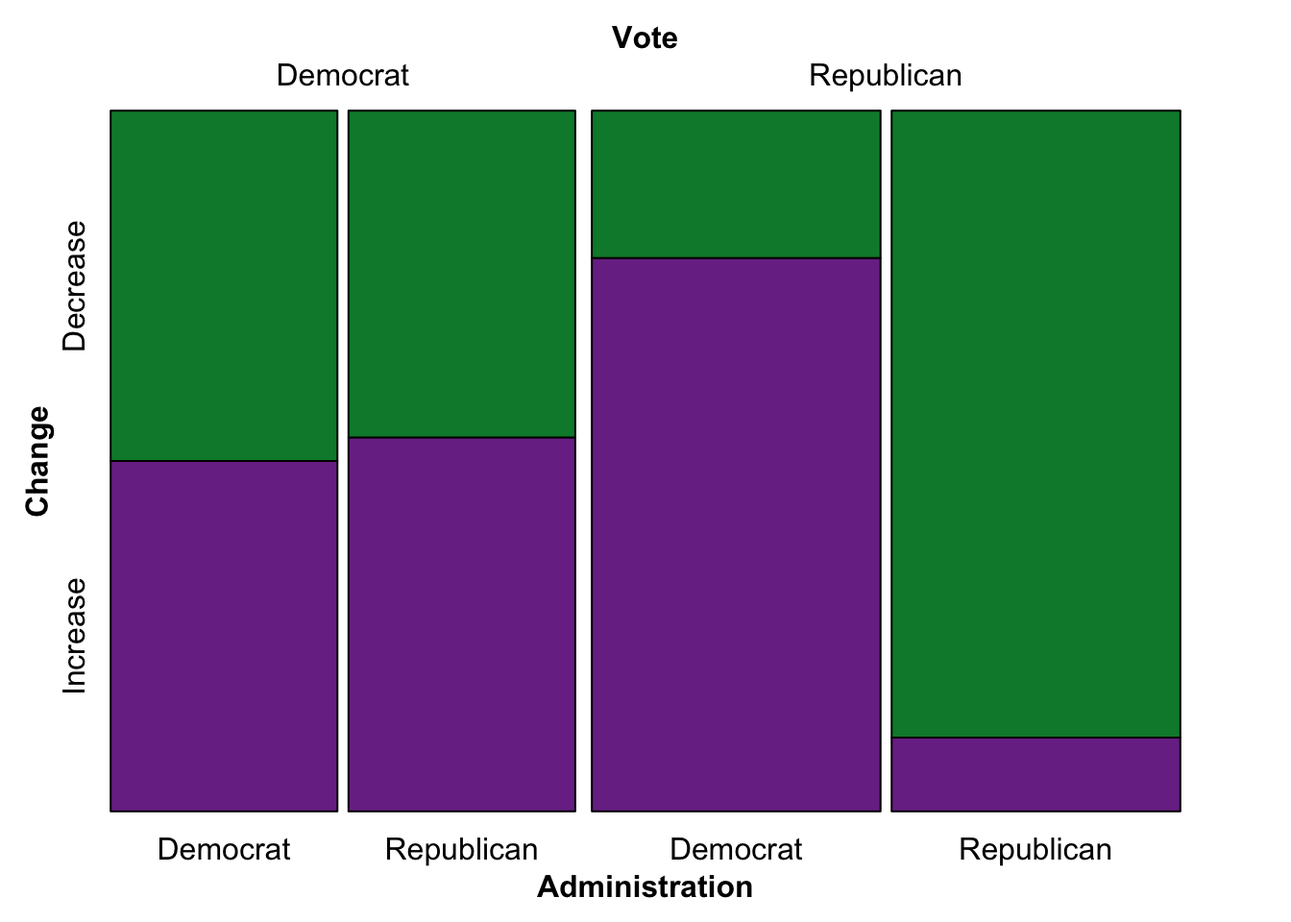
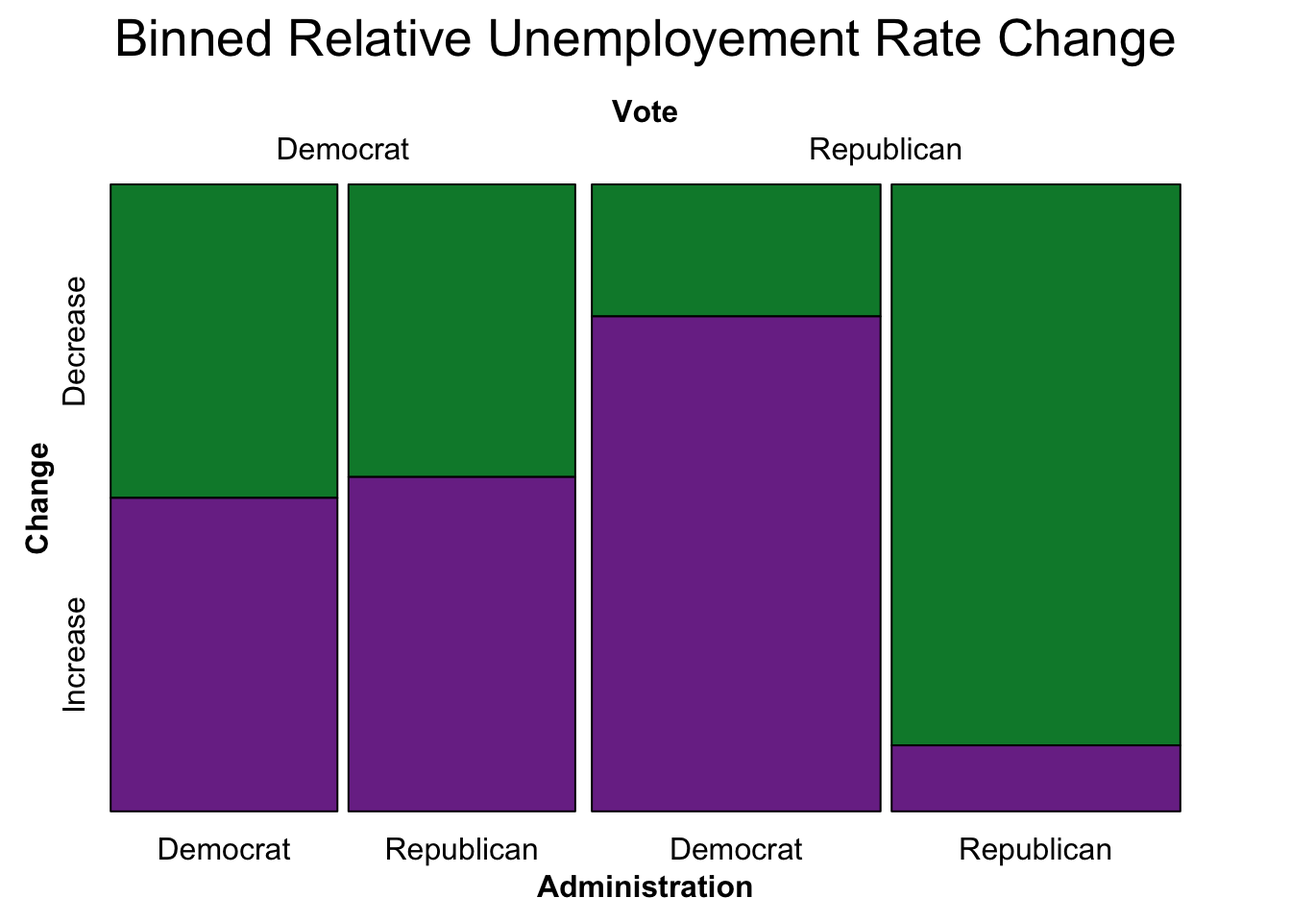
final edits

diff --git a/docs/results.html b/docs/results.html
@@ -212,7 +212,7 @@ pre > code.sourceCode > span > a:first-child::before { text-decoration: underlin
 
 
 <p>This section summarizes key findings from each dataset, identifying trends across economic variables and safe states. The analysis focuses on each variable individually to identify patterns within and across economic factors.</p>
-<p>An important note: there are sixteen safe-Democratic states and twenty safe-Republican states. Also, recall a safe state a state that voted for the same political party every election during the twenty-first century.</p>
+<p>An important note: there are sixteen safe-Democratic states and twenty safe-Republican states. Also, recall a safe state is a state that voted for the same political party every election during the twenty-first century.</p>
 <section id="unemployement-rate" class="level2" data-number="3.1">
 <h2 data-number="3.1" class="anchored" data-anchor-id="unemployement-rate"><span class="header-section-number">3.1</span> Unemployement Rate</h2>
 <p>The first variable of interest is unemployment rate. To quantify the impact of each presidency, a variable ‘change’ was created. Change is defined as the state’s unemployment rate in the last year the respective president was in office, subtracted from the first year they took office. Naturally, certain states have lower unemployment rates for reasons related to population size, specific industries, or the age of the workforce. To account for these differences, the analysis uses a metric that quantifies the state’s change relative to the overall change in the United States. Each state has a value “Difference from US,” (often referred to as relative unemployment rate change) which is the change in the individual state’s unemployment rate for the respective administration, subtracted by the United States’ change in unemployment rate for the same administration.</p>
@@ -244,7 +244,7 @@ pre > code.sourceCode > span > a:first-child::before { text-decoration: underlin
 <span id="cb1-22"><a href="#cb1-22" aria-hidden="true" tabindex="-1"></a>      <span class="st">"United States"</span> <span class="ot">=</span> <span class="st">"gray"</span></span>
 <span id="cb1-23"><a href="#cb1-23" aria-hidden="true" tabindex="-1"></a>    )) <span class="sc">+</span> <span class="fu">scale_y_reordered</span>() <span class="sc">+</span> </span>
 <span id="cb1-24"><a href="#cb1-24" aria-hidden="true" tabindex="-1"></a>  <span class="fu">labs</span>(<span class="at">y =</span> <span class="st">"State"</span>,</span>
-<span id="cb1-25"><a href="#cb1-25" aria-hidden="true" tabindex="-1"></a>       <span class="at">x =</span> <span class="st">"Average Unemployement Rate"</span>,</span>
+<span id="cb1-25"><a href="#cb1-25" aria-hidden="true" tabindex="-1"></a>       <span class="at">x =</span> <span class="st">"Relative Unemployment Rate Change"</span>,</span>
 <span id="cb1-26"><a href="#cb1-26" aria-hidden="true" tabindex="-1"></a>       <span class="at">title =</span> <span class="st">"Difference from US Change in Unemployement Rate Throughout 21st Century Across Administrations"</span>)</span></code></pre></div><button title="Copy to Clipboard" class="code-copy-button"><i class="bi"></i></button></div>
 </details>
 <div class="cell-output-display">
@@ -275,8 +275,10 @@ pre > code.sourceCode > span > a:first-child::before { text-decoration: underlin
 <span id="cb2-12"><a href="#cb2-12" aria-hidden="true" tabindex="-1"></a>  <span class="fu">group_by</span>(Vote, Change, Administration) <span class="sc">|&gt;</span></span>
 <span id="cb2-13"><a href="#cb2-13" aria-hidden="true" tabindex="-1"></a>  <span class="fu">summarize</span>(<span class="at">Freq =</span> <span class="fu">n</span>()) <span class="sc">|&gt;</span> <span class="fu">ungroup</span>() </span>
 <span id="cb2-14"><a href="#cb2-14" aria-hidden="true" tabindex="-1"></a></span>
-<span id="cb2-15"><a href="#cb2-15" aria-hidden="true" tabindex="-1"></a>vcd<span class="sc">::</span><span class="fu">mosaic</span>(Change <span class="sc">~</span> Vote <span class="sc">+</span> Administration, mosaic2, <span class="at">direction =</span> <span class="fu">c</span>(<span class="st">"v"</span>, <span class="st">"v"</span>, <span class="st">"h"</span>),</span>
-<span id="cb2-16"><a href="#cb2-16" aria-hidden="true" tabindex="-1"></a>            <span class="at">highlighting_fill =</span> rate_colors)</span></code></pre></div><button title="Copy to Clipboard" class="code-copy-button"><i class="bi"></i></button></div>
+<span id="cb2-15"><a href="#cb2-15" aria-hidden="true" tabindex="-1"></a>vcd<span class="sc">::</span><span class="fu">mosaic</span>(Change <span class="sc">~</span> Vote <span class="sc">+</span> Administration, mosaic2, </span>
+<span id="cb2-16"><a href="#cb2-16" aria-hidden="true" tabindex="-1"></a>            <span class="at">direction =</span> <span class="fu">c</span>(<span class="st">"v"</span>, <span class="st">"v"</span>, <span class="st">"h"</span>),</span>
+<span id="cb2-17"><a href="#cb2-17" aria-hidden="true" tabindex="-1"></a>            <span class="at">highlighting_fill =</span> rate_colors,</span>
+<span id="cb2-18"><a href="#cb2-18" aria-hidden="true" tabindex="-1"></a>            <span class="at">main =</span> <span class="st">"Binned Relative Unemployement Rate Change"</span>) </span></code></pre></div><button title="Copy to Clipboard" class="code-copy-button"><i class="bi"></i></button></div>
 </details>
 <div class="cell-output-display">
 <div>
@@ -312,7 +314,7 @@ pre > code.sourceCode > span > a:first-child::before { text-decoration: underlin
 <span id="cb3-18"><a href="#cb3-18" aria-hidden="true" tabindex="-1"></a>) <span class="sc">+</span></span>
 <span id="cb3-19"><a href="#cb3-19" aria-hidden="true" tabindex="-1"></a>  <span class="fu">facet_wrap</span>(<span class="sc">~</span> administration, <span class="at">ncol =</span> <span class="dv">2</span>) <span class="sc">+</span></span>
 <span id="cb3-20"><a href="#cb3-20" aria-hidden="true" tabindex="-1"></a>  <span class="fu">scale_fill_gradient2</span>(</span>
-<span id="cb3-21"><a href="#cb3-21" aria-hidden="true" tabindex="-1"></a>    <span class="at">name     =</span> <span class="st">"State − US change"</span>,</span>
+<span id="cb3-21"><a href="#cb3-21" aria-hidden="true" tabindex="-1"></a>    <span class="at">name     =</span> <span class="st">"Difference from US"</span>,</span>
 <span id="cb3-22"><a href="#cb3-22" aria-hidden="true" tabindex="-1"></a>    <span class="at">low      =</span> <span class="st">"#008837"</span>,</span>
 <span id="cb3-23"><a href="#cb3-23" aria-hidden="true" tabindex="-1"></a>    <span class="at">high     =</span> <span class="st">"#7b3294"</span>,</span>
 <span id="cb3-24"><a href="#cb3-24" aria-hidden="true" tabindex="-1"></a>    <span class="at">midpoint =</span> <span class="dv">0</span>,</span>
@@ -320,19 +322,22 @@ pre > code.sourceCode > span > a:first-child::before { text-decoration: underlin
 <span id="cb3-26"><a href="#cb3-26" aria-hidden="true" tabindex="-1"></a>    <span class="at">oob      =</span> scales<span class="sc">::</span>squish,</span>
 <span id="cb3-27"><a href="#cb3-27" aria-hidden="true" tabindex="-1"></a>    <span class="at">na.value =</span> <span class="st">"grey90"</span></span>
 <span id="cb3-28"><a href="#cb3-28" aria-hidden="true" tabindex="-1"></a>  ) <span class="sc">+</span></span>
-<span id="cb3-29"><a href="#cb3-29" aria-hidden="true" tabindex="-1"></a>  <span class="fu">theme_minimal</span>()</span>
-<span id="cb3-30"><a href="#cb3-30" aria-hidden="true" tabindex="-1"></a></span>
-<span id="cb3-31"><a href="#cb3-31" aria-hidden="true" tabindex="-1"></a>four_maps<span class="sc">$</span>data <span class="ot">&lt;-</span> four_maps<span class="sc">$</span>data <span class="sc">|&gt;</span> </span>
-<span id="cb3-32"><a href="#cb3-32" aria-hidden="true" tabindex="-1"></a>  <span class="fu">filter</span>(<span class="sc">!</span><span class="fu">is.na</span>(administration))</span>
+<span id="cb3-29"><a href="#cb3-29" aria-hidden="true" tabindex="-1"></a>  <span class="fu">labs</span>(</span>
+<span id="cb3-30"><a href="#cb3-30" aria-hidden="true" tabindex="-1"></a>    <span class="at">title =</span> <span class="st">"Difference in Unemployment Rate Relative to the U.S. Average"</span>,</span>
+<span id="cb3-31"><a href="#cb3-31" aria-hidden="true" tabindex="-1"></a>    <span class="at">subtitle =</span> <span class="st">"By Presidential Administration"</span>)<span class="sc">+</span></span>
+<span id="cb3-32"><a href="#cb3-32" aria-hidden="true" tabindex="-1"></a>  <span class="fu">theme_minimal</span>()</span>
 <span id="cb3-33"><a href="#cb3-33" aria-hidden="true" tabindex="-1"></a></span>
-<span id="cb3-34"><a href="#cb3-34" aria-hidden="true" tabindex="-1"></a>four_maps <span class="ot">&lt;-</span> four_maps <span class="sc">+</span></span>
-<span id="cb3-35"><a href="#cb3-35" aria-hidden="true" tabindex="-1"></a>  <span class="fu">coord_sf</span>(<span class="at">datum =</span> <span class="cn">NA</span>) <span class="sc">+</span>  </span>
-<span id="cb3-36"><a href="#cb3-36" aria-hidden="true" tabindex="-1"></a>  <span class="fu">theme</span>(</span>
-<span id="cb3-37"><a href="#cb3-37" aria-hidden="true" tabindex="-1"></a>    <span class="at">panel.grid.major =</span> <span class="fu">element_blank</span>(),</span>
-<span id="cb3-38"><a href="#cb3-38" aria-hidden="true" tabindex="-1"></a>    <span class="at">panel.grid.minor =</span> <span class="fu">element_blank</span>()</span>
-<span id="cb3-39"><a href="#cb3-39" aria-hidden="true" tabindex="-1"></a>  )</span>
-<span id="cb3-40"><a href="#cb3-40" aria-hidden="true" tabindex="-1"></a></span>
-<span id="cb3-41"><a href="#cb3-41" aria-hidden="true" tabindex="-1"></a>four_maps</span></code></pre></div><button title="Copy to Clipboard" class="code-copy-button"><i class="bi"></i></button></div>
+<span id="cb3-34"><a href="#cb3-34" aria-hidden="true" tabindex="-1"></a>four_maps<span class="sc">$</span>data <span class="ot">&lt;-</span> four_maps<span class="sc">$</span>data <span class="sc">|&gt;</span> </span>
+<span id="cb3-35"><a href="#cb3-35" aria-hidden="true" tabindex="-1"></a>  <span class="fu">filter</span>(<span class="sc">!</span><span class="fu">is.na</span>(administration))</span>
+<span id="cb3-36"><a href="#cb3-36" aria-hidden="true" tabindex="-1"></a></span>
+<span id="cb3-37"><a href="#cb3-37" aria-hidden="true" tabindex="-1"></a>four_maps <span class="ot">&lt;-</span> four_maps <span class="sc">+</span></span>
+<span id="cb3-38"><a href="#cb3-38" aria-hidden="true" tabindex="-1"></a>  <span class="fu">coord_sf</span>(<span class="at">datum =</span> <span class="cn">NA</span>) <span class="sc">+</span>  </span>
+<span id="cb3-39"><a href="#cb3-39" aria-hidden="true" tabindex="-1"></a>  <span class="fu">theme</span>(</span>
+<span id="cb3-40"><a href="#cb3-40" aria-hidden="true" tabindex="-1"></a>    <span class="at">panel.grid.major =</span> <span class="fu">element_blank</span>(),</span>
+<span id="cb3-41"><a href="#cb3-41" aria-hidden="true" tabindex="-1"></a>    <span class="at">panel.grid.minor =</span> <span class="fu">element_blank</span>()</span>
+<span id="cb3-42"><a href="#cb3-42" aria-hidden="true" tabindex="-1"></a>  )</span>
+<span id="cb3-43"><a href="#cb3-43" aria-hidden="true" tabindex="-1"></a></span>
+<span id="cb3-44"><a href="#cb3-44" aria-hidden="true" tabindex="-1"></a>four_maps</span></code></pre></div><button title="Copy to Clipboard" class="code-copy-button"><i class="bi"></i></button></div>
 </details>
 <div class="cell-output-display">
 <div>
@@ -439,7 +444,9 @@ pre > code.sourceCode > span > a:first-child::before { text-decoration: underlin
 <span id="cb5-44"><a href="#cb5-44" aria-hidden="true" tabindex="-1"></a>  <span class="fu">facet_wrap</span>(<span class="sc">~</span> year_income) <span class="sc">+</span></span>
 <span id="cb5-45"><a href="#cb5-45" aria-hidden="true" tabindex="-1"></a>  <span class="fu">labs</span>(<span class="at">x =</span> <span class="st">"Vote"</span>, <span class="at">y =</span> <span class="st">"Median Income"</span>) <span class="sc">+</span></span>
 <span id="cb5-46"><a href="#cb5-46" aria-hidden="true" tabindex="-1"></a>  <span class="fu">scale_y_continuous</span>(<span class="at">labels =</span> scales<span class="sc">::</span>comma)<span class="sc">+</span></span>
-<span id="cb5-47"><a href="#cb5-47" aria-hidden="true" tabindex="-1"></a>  <span class="fu">theme_minimal</span>()</span></code></pre></div><button title="Copy to Clipboard" class="code-copy-button"><i class="bi"></i></button></div>
+<span id="cb5-47"><a href="#cb5-47" aria-hidden="true" tabindex="-1"></a>  <span class="fu">labs</span>(<span class="at">title =</span> <span class="st">"Distribution of Average Median Income Across State Vote"</span>,</span>
+<span id="cb5-48"><a href="#cb5-48" aria-hidden="true" tabindex="-1"></a>       <span class="at">subtitle =</span> <span class="st">"For the Year 2001 and 2024"</span>)<span class="sc">+</span></span>
+<span id="cb5-49"><a href="#cb5-49" aria-hidden="true" tabindex="-1"></a>  <span class="fu">theme_minimal</span>()</span></code></pre></div><button title="Copy to Clipboard" class="code-copy-button"><i class="bi"></i></button></div>
 </details>
 <div class="cell-output-display">
 <div>
@@ -564,7 +571,7 @@ pre > code.sourceCode > span > a:first-child::before { text-decoration: underlin
 </section>
 <section id="personal-income-disposable-personal-income-and-personal-consumption-expenditures" class="level2" data-number="3.3">
 <h2 data-number="3.3" class="anchored" data-anchor-id="personal-income-disposable-personal-income-and-personal-consumption-expenditures"><span class="header-section-number">3.3</span> Personal Income, Disposable Personal Income, and Personal Consumption Expenditures</h2>
-<p>This last section will explore three additional variables together: personal income, disposable personal income, and personal consumption expenditures. Also, since certain states may have higher values for various reasons not related to politics, the difference value for each state subtracted from the US difference was used to obtain a more standardized measure for relative performance. Also, for these variables a negative value indicates worse peformance, while a positive value reflects positive economic changes.</p>
+<p>This last section will explore three additional variables together: personal income, disposable personal income, and personal consumption expenditures. Each of these variables are per capita, so they are adjusted for the population of each state. Also, since certain states may have higher values for various reasons not related to politics, the difference value for each state subtracted from the US difference was used to obtain a more standardized measure for relative performance. Also, for these variables a negative value indicates worse peformance, while a positive value reflects positive economic changes.</p>
 <div class="cell">
 <details class="code-fold">
 <summary>Code</summary>
@@ -713,47 +720,55 @@ pre > code.sourceCode > span > a:first-child::before { text-decoration: underlin
 <span id="cb10-34"><a href="#cb10-34" aria-hidden="true" tabindex="-1"></a>loadings <span class="ot">&lt;-</span> <span class="fu">as.data.frame</span>(pca_all<span class="sc">$</span>rotation[, <span class="dv">1</span><span class="sc">:</span><span class="dv">2</span>])</span>
 <span id="cb10-35"><a href="#cb10-35" aria-hidden="true" tabindex="-1"></a>loadings<span class="sc">$</span>variable <span class="ot">&lt;-</span> <span class="fu">rownames</span>(loadings)</span>
 <span id="cb10-36"><a href="#cb10-36" aria-hidden="true" tabindex="-1"></a></span>
-<span id="cb10-37"><a href="#cb10-37" aria-hidden="true" tabindex="-1"></a></span>
-<span id="cb10-38"><a href="#cb10-38" aria-hidden="true" tabindex="-1"></a>score_range <span class="ot">&lt;-</span> <span class="fu">max</span>(</span>
-<span id="cb10-39"><a href="#cb10-39" aria-hidden="true" tabindex="-1"></a>  <span class="fu">range</span>(scores<span class="sc">$</span>PC1), </span>
-<span id="cb10-40"><a href="#cb10-40" aria-hidden="true" tabindex="-1"></a>  <span class="fu">range</span>(scores<span class="sc">$</span>PC2)</span>
-<span id="cb10-41"><a href="#cb10-41" aria-hidden="true" tabindex="-1"></a>)</span>
-<span id="cb10-42"><a href="#cb10-42" aria-hidden="true" tabindex="-1"></a></span>
-<span id="cb10-43"><a href="#cb10-43" aria-hidden="true" tabindex="-1"></a>loading_range <span class="ot">&lt;-</span> <span class="fu">max</span>(</span>
-<span id="cb10-44"><a href="#cb10-44" aria-hidden="true" tabindex="-1"></a>  <span class="fu">sqrt</span>(loadings<span class="sc">$</span>PC1<span class="sc">^</span><span class="dv">2</span> <span class="sc">+</span> loadings<span class="sc">$</span>PC2<span class="sc">^</span><span class="dv">2</span>)</span>
-<span id="cb10-45"><a href="#cb10-45" aria-hidden="true" tabindex="-1"></a>)</span>
-<span id="cb10-46"><a href="#cb10-46" aria-hidden="true" tabindex="-1"></a></span>
-<span id="cb10-47"><a href="#cb10-47" aria-hidden="true" tabindex="-1"></a>arrow_scale <span class="ot">&lt;-</span> score_range <span class="sc">/</span> loading_range <span class="sc">*</span> <span class="fl">0.3</span>  </span>
-<span id="cb10-48"><a href="#cb10-48" aria-hidden="true" tabindex="-1"></a></span>
-<span id="cb10-49"><a href="#cb10-49" aria-hidden="true" tabindex="-1"></a><span class="fu">ggplot</span>(scores, <span class="fu">aes</span>(<span class="at">x =</span> PC1, <span class="at">y =</span> PC2)) <span class="sc">+</span></span>
+<span id="cb10-37"><a href="#cb10-37" aria-hidden="true" tabindex="-1"></a>loadings<span class="sc">$</span>variable <span class="ot">&lt;-</span> <span class="fu">recode</span>(</span>
+<span id="cb10-38"><a href="#cb10-38" aria-hidden="true" tabindex="-1"></a>  loadings<span class="sc">$</span>variable,</span>
+<span id="cb10-39"><a href="#cb10-39" aria-hidden="true" tabindex="-1"></a>  <span class="st">"PC_PCE_dif"</span> <span class="ot">=</span> <span class="st">"PCE Difference"</span>,</span>
+<span id="cb10-40"><a href="#cb10-40" aria-hidden="true" tabindex="-1"></a>  <span class="st">"PC_DPI_dif"</span> <span class="ot">=</span> <span class="st">"DPI Difference"</span>,</span>
+<span id="cb10-41"><a href="#cb10-41" aria-hidden="true" tabindex="-1"></a>  <span class="st">"PC_PI_dif"</span>  <span class="ot">=</span> <span class="st">"PI Difference"</span></span>
+<span id="cb10-42"><a href="#cb10-42" aria-hidden="true" tabindex="-1"></a>)</span>
+<span id="cb10-43"><a href="#cb10-43" aria-hidden="true" tabindex="-1"></a></span>
+<span id="cb10-44"><a href="#cb10-44" aria-hidden="true" tabindex="-1"></a></span>
+<span id="cb10-45"><a href="#cb10-45" aria-hidden="true" tabindex="-1"></a></span>
+<span id="cb10-46"><a href="#cb10-46" aria-hidden="true" tabindex="-1"></a>score_range <span class="ot">&lt;-</span> <span class="fu">max</span>(</span>
+<span id="cb10-47"><a href="#cb10-47" aria-hidden="true" tabindex="-1"></a>  <span class="fu">range</span>(scores<span class="sc">$</span>PC1), </span>
+<span id="cb10-48"><a href="#cb10-48" aria-hidden="true" tabindex="-1"></a>  <span class="fu">range</span>(scores<span class="sc">$</span>PC2)</span>
+<span id="cb10-49"><a href="#cb10-49" aria-hidden="true" tabindex="-1"></a>)</span>
 <span id="cb10-50"><a href="#cb10-50" aria-hidden="true" tabindex="-1"></a></span>
-<span id="cb10-51"><a href="#cb10-51" aria-hidden="true" tabindex="-1"></a>  <span class="fu">geom_point</span>(<span class="fu">aes</span>(<span class="at">color =</span> color), <span class="at">size =</span> <span class="dv">3</span>, <span class="at">alpha =</span> <span class="fl">0.8</span>) <span class="sc">+</span></span>
-<span id="cb10-52"><a href="#cb10-52" aria-hidden="true" tabindex="-1"></a></span>
-<span id="cb10-53"><a href="#cb10-53" aria-hidden="true" tabindex="-1"></a>  <span class="fu">geom_text</span>(<span class="fu">aes</span>(<span class="at">label =</span> State, <span class="at">color =</span> color),</span>
-<span id="cb10-54"><a href="#cb10-54" aria-hidden="true" tabindex="-1"></a>            <span class="at">size =</span> <span class="fl">2.5</span>, <span class="at">vjust =</span> <span class="sc">-</span><span class="fl">0.8</span>) <span class="sc">+</span></span>
-<span id="cb10-55"><a href="#cb10-55" aria-hidden="true" tabindex="-1"></a></span>
-<span id="cb10-56"><a href="#cb10-56" aria-hidden="true" tabindex="-1"></a>  <span class="fu">geom_segment</span>(<span class="at">data =</span> loadings,</span>
-<span id="cb10-57"><a href="#cb10-57" aria-hidden="true" tabindex="-1"></a>               <span class="fu">aes</span>(<span class="at">x =</span> <span class="dv">0</span>, <span class="at">y =</span> <span class="dv">0</span>,</span>
-<span id="cb10-58"><a href="#cb10-58" aria-hidden="true" tabindex="-1"></a>                   <span class="at">xend =</span> PC1 <span class="sc">*</span> arrow_scale,</span>
-<span id="cb10-59"><a href="#cb10-59" aria-hidden="true" tabindex="-1"></a>                   <span class="at">yend =</span> PC2 <span class="sc">*</span> arrow_scale),</span>
-<span id="cb10-60"><a href="#cb10-60" aria-hidden="true" tabindex="-1"></a>               <span class="at">arrow =</span> <span class="fu">arrow</span>(<span class="at">length =</span> <span class="fu">unit</span>(<span class="fl">0.25</span>, <span class="st">"cm"</span>)),</span>
-<span id="cb10-61"><a href="#cb10-61" aria-hidden="true" tabindex="-1"></a>               <span class="at">color =</span> <span class="st">"black"</span>) <span class="sc">+</span></span>
-<span id="cb10-62"><a href="#cb10-62" aria-hidden="true" tabindex="-1"></a></span>
-<span id="cb10-63"><a href="#cb10-63" aria-hidden="true" tabindex="-1"></a>  <span class="fu">geom_text</span>(<span class="at">data =</span> loadings,</span>
-<span id="cb10-64"><a href="#cb10-64" aria-hidden="true" tabindex="-1"></a>            <span class="fu">aes</span>(<span class="at">x =</span> PC1 <span class="sc">*</span> arrow_scale, </span>
-<span id="cb10-65"><a href="#cb10-65" aria-hidden="true" tabindex="-1"></a>                <span class="at">y =</span> PC2 <span class="sc">*</span> arrow_scale, </span>
-<span id="cb10-66"><a href="#cb10-66" aria-hidden="true" tabindex="-1"></a>                <span class="at">label =</span> variable),</span>
-<span id="cb10-67"><a href="#cb10-67" aria-hidden="true" tabindex="-1"></a>            <span class="at">color =</span> <span class="st">"black"</span>, <span class="at">size =</span> <span class="dv">3</span>) <span class="sc">+</span></span>
-<span id="cb10-68"><a href="#cb10-68" aria-hidden="true" tabindex="-1"></a></span>
-<span id="cb10-69"><a href="#cb10-69" aria-hidden="true" tabindex="-1"></a>  </span>
-<span id="cb10-70"><a href="#cb10-70" aria-hidden="true" tabindex="-1"></a>  <span class="fu">scale_color_identity</span>() <span class="sc">+</span></span>
-<span id="cb10-71"><a href="#cb10-71" aria-hidden="true" tabindex="-1"></a>  <span class="fu">facet_wrap</span>(<span class="sc">~</span> admin_party) <span class="sc">+</span></span>
-<span id="cb10-72"><a href="#cb10-72" aria-hidden="true" tabindex="-1"></a>  <span class="fu">theme_minimal</span>() <span class="sc">+</span></span>
-<span id="cb10-73"><a href="#cb10-73" aria-hidden="true" tabindex="-1"></a>  <span class="fu">labs</span>(</span>
-<span id="cb10-74"><a href="#cb10-74" aria-hidden="true" tabindex="-1"></a>    <span class="at">title =</span> <span class="st">"PCA of State-Level Economic Differences"</span>,</span>
-<span id="cb10-75"><a href="#cb10-75" aria-hidden="true" tabindex="-1"></a>    <span class="at">x =</span> <span class="st">"PC1"</span>,</span>
-<span id="cb10-76"><a href="#cb10-76" aria-hidden="true" tabindex="-1"></a>    <span class="at">y =</span> <span class="st">"PC2"</span></span>
-<span id="cb10-77"><a href="#cb10-77" aria-hidden="true" tabindex="-1"></a>  )</span></code></pre></div><button title="Copy to Clipboard" class="code-copy-button"><i class="bi"></i></button></div>
+<span id="cb10-51"><a href="#cb10-51" aria-hidden="true" tabindex="-1"></a>loading_range <span class="ot">&lt;-</span> <span class="fu">max</span>(</span>
+<span id="cb10-52"><a href="#cb10-52" aria-hidden="true" tabindex="-1"></a>  <span class="fu">sqrt</span>(loadings<span class="sc">$</span>PC1<span class="sc">^</span><span class="dv">2</span> <span class="sc">+</span> loadings<span class="sc">$</span>PC2<span class="sc">^</span><span class="dv">2</span>)</span>
+<span id="cb10-53"><a href="#cb10-53" aria-hidden="true" tabindex="-1"></a>)</span>
+<span id="cb10-54"><a href="#cb10-54" aria-hidden="true" tabindex="-1"></a></span>
+<span id="cb10-55"><a href="#cb10-55" aria-hidden="true" tabindex="-1"></a>arrow_scale <span class="ot">&lt;-</span> score_range <span class="sc">/</span> loading_range <span class="sc">*</span> <span class="fl">0.3</span>  </span>
+<span id="cb10-56"><a href="#cb10-56" aria-hidden="true" tabindex="-1"></a></span>
+<span id="cb10-57"><a href="#cb10-57" aria-hidden="true" tabindex="-1"></a><span class="fu">ggplot</span>(scores, <span class="fu">aes</span>(<span class="at">x =</span> PC1, <span class="at">y =</span> PC2)) <span class="sc">+</span></span>
+<span id="cb10-58"><a href="#cb10-58" aria-hidden="true" tabindex="-1"></a></span>
+<span id="cb10-59"><a href="#cb10-59" aria-hidden="true" tabindex="-1"></a>  <span class="fu">geom_point</span>(<span class="fu">aes</span>(<span class="at">color =</span> color), <span class="at">size =</span> <span class="dv">3</span>, <span class="at">alpha =</span> <span class="fl">0.8</span>) <span class="sc">+</span></span>
+<span id="cb10-60"><a href="#cb10-60" aria-hidden="true" tabindex="-1"></a></span>
+<span id="cb10-61"><a href="#cb10-61" aria-hidden="true" tabindex="-1"></a>  <span class="fu">geom_text</span>(<span class="fu">aes</span>(<span class="at">label =</span> State, <span class="at">color =</span> color),</span>
+<span id="cb10-62"><a href="#cb10-62" aria-hidden="true" tabindex="-1"></a>            <span class="at">size =</span> <span class="fl">2.5</span>, <span class="at">vjust =</span> <span class="sc">-</span><span class="fl">0.8</span>) <span class="sc">+</span></span>
+<span id="cb10-63"><a href="#cb10-63" aria-hidden="true" tabindex="-1"></a></span>
+<span id="cb10-64"><a href="#cb10-64" aria-hidden="true" tabindex="-1"></a>  <span class="fu">geom_segment</span>(<span class="at">data =</span> loadings,</span>
+<span id="cb10-65"><a href="#cb10-65" aria-hidden="true" tabindex="-1"></a>               <span class="fu">aes</span>(<span class="at">x =</span> <span class="dv">0</span>, <span class="at">y =</span> <span class="dv">0</span>,</span>
+<span id="cb10-66"><a href="#cb10-66" aria-hidden="true" tabindex="-1"></a>                   <span class="at">xend =</span> PC1 <span class="sc">*</span> arrow_scale,</span>
+<span id="cb10-67"><a href="#cb10-67" aria-hidden="true" tabindex="-1"></a>                   <span class="at">yend =</span> PC2 <span class="sc">*</span> arrow_scale),</span>
+<span id="cb10-68"><a href="#cb10-68" aria-hidden="true" tabindex="-1"></a>               <span class="at">arrow =</span> <span class="fu">arrow</span>(<span class="at">length =</span> <span class="fu">unit</span>(<span class="fl">0.25</span>, <span class="st">"cm"</span>)),</span>
+<span id="cb10-69"><a href="#cb10-69" aria-hidden="true" tabindex="-1"></a>               <span class="at">color =</span> <span class="st">"black"</span>) <span class="sc">+</span></span>
+<span id="cb10-70"><a href="#cb10-70" aria-hidden="true" tabindex="-1"></a></span>
+<span id="cb10-71"><a href="#cb10-71" aria-hidden="true" tabindex="-1"></a>  <span class="fu">geom_text</span>(<span class="at">data =</span> loadings,</span>
+<span id="cb10-72"><a href="#cb10-72" aria-hidden="true" tabindex="-1"></a>            <span class="fu">aes</span>(<span class="at">x =</span> PC1 <span class="sc">*</span> arrow_scale<span class="sc">*</span><span class="fl">1.05</span>, </span>
+<span id="cb10-73"><a href="#cb10-73" aria-hidden="true" tabindex="-1"></a>                <span class="at">y =</span> PC2 <span class="sc">*</span> arrow_scale<span class="sc">*</span><span class="fl">1.05</span>, </span>
+<span id="cb10-74"><a href="#cb10-74" aria-hidden="true" tabindex="-1"></a>                <span class="at">label =</span> variable),</span>
+<span id="cb10-75"><a href="#cb10-75" aria-hidden="true" tabindex="-1"></a>            <span class="at">color =</span> <span class="st">"black"</span>, <span class="at">size =</span> <span class="dv">3</span>) <span class="sc">+</span></span>
+<span id="cb10-76"><a href="#cb10-76" aria-hidden="true" tabindex="-1"></a></span>
+<span id="cb10-77"><a href="#cb10-77" aria-hidden="true" tabindex="-1"></a>  </span>
+<span id="cb10-78"><a href="#cb10-78" aria-hidden="true" tabindex="-1"></a>  <span class="fu">scale_color_identity</span>() <span class="sc">+</span></span>
+<span id="cb10-79"><a href="#cb10-79" aria-hidden="true" tabindex="-1"></a>  <span class="fu">facet_wrap</span>(<span class="sc">~</span> admin_party) <span class="sc">+</span></span>
+<span id="cb10-80"><a href="#cb10-80" aria-hidden="true" tabindex="-1"></a>  <span class="fu">theme_minimal</span>() <span class="sc">+</span></span>
+<span id="cb10-81"><a href="#cb10-81" aria-hidden="true" tabindex="-1"></a>  <span class="fu">labs</span>(</span>
+<span id="cb10-82"><a href="#cb10-82" aria-hidden="true" tabindex="-1"></a>    <span class="at">title =</span> <span class="st">"PCA of State-Level Economic Differences"</span>,</span>
+<span id="cb10-83"><a href="#cb10-83" aria-hidden="true" tabindex="-1"></a>    <span class="at">x =</span> <span class="st">"PC1"</span>,</span>
+<span id="cb10-84"><a href="#cb10-84" aria-hidden="true" tabindex="-1"></a>    <span class="at">y =</span> <span class="st">"PC2"</span></span>
+<span id="cb10-85"><a href="#cb10-85" aria-hidden="true" tabindex="-1"></a>  )</span></code></pre></div><button title="Copy to Clipboard" class="code-copy-button"><i class="bi"></i></button></div>
 </details>
 <div class="cell-output-display">
 <div>

diff --git a/docs/conclusion.html b/docs/conclusion.html
@@ -167,7 +167,7 @@ ul.task-list li input[type="checkbox"] {
 </header>
 
 
-<p>Simply, Democratic states tend to benefit under Democratic presidents, and Republican states tend to benefit under Republican presidents. However, these patterns and findings do not overwhelmingly show consistent improvement across all states and all variables. Certain variables, such as the unemployment rate, tend to show stronger trends within and across states, while variables like personal consumption expenditure yield mixed findings. Additionally, certain states like Oklahoma, Wyoming, South Dakota, North Dakota, and Nebraska follow stronger trends in economic differences across administrations, while other states have very mixed results. Also, certain variables show different state patterns, with unemployment rate impacting Republican states more and the median household income impacting Democratic states more.</p>
+<p>Simply, Democratic states tend to benefit under Democratic presidents, and Republican states tend to benefit under Republican presidents. However, these patterns and findings do not overwhelmingly show consistent improvement across all states and all variables. Certain variables, such as unemployment rate, tend to show stronger trends within and across states, while variables like personal consumption expenditure yield mixed findings. Additionally, certain states like Oklahoma, Wyoming, South Dakota, North Dakota, and Nebraska follow stronger trends in economic differences across administrations, while other states have very mixed results. Also, certain variables show different state patterns, with unemployment rate impacting Republican states more and the median household income impacting Democratic states more.</p>
 <p>In the future, it will be useful to analyze the natural state grouping that this analysis began to uncover. For example, the grouping of middle-of-the-state states or the cluster of PCA states. A small industry-specific analysis was conducted during the unemployment rate analysis, but it began to analyze ideas and trends not related to the original research question, so it was ultimately not included. However, that would be an insightful future direction in analyzing the impact of the natural groupings of states compared to the voting preferences of those states.</p>
 <p>The analysis encountered a few limitations, which were addressed with feature engineering and acknowledging necessary assumptions. Overall, this project was insightful in understanding the importance of robust preprocessing pipelines, especially when working with diverse datasets and visualization types. For example, many visualizations required data transformation, so having clean code that did not override changes was essential to an efficient workflow.</p>
 

diff --git a/README.md b/README.md
@@ -1,5 +1,5 @@
 This project will explore economic statistics (unemployment rate, median household income, personal income, personal disposable income, and personal consumption expenditures) for safe states at the state-by-state level from 2001 to 2024 (covering the Bush, Obama, Trump, and Biden administrations). Safe states are states that have voted for the same party every presidential election throughout the twenty-first century. The goal of this project is to explore whether a state that consistently votes for the same party in every presidential election experiences stronger economic outcomes during that party’s administrations compared to during the other party’s administrations. On a larger scale, this project aims to understand if political polarization is warranted, specifically, whether consistently voting for the same party aligns with measurable positive economic outcomes, or if states experience more similar economic trends than their political identities would suggest. The analysis will also analyze natural economic differences in Democratic and Republican states to help contextualize findings.
 
 
-
+The analysis and conclusions can be found at [https://avagreyyy4.github.io/political-party-impact/].
 
